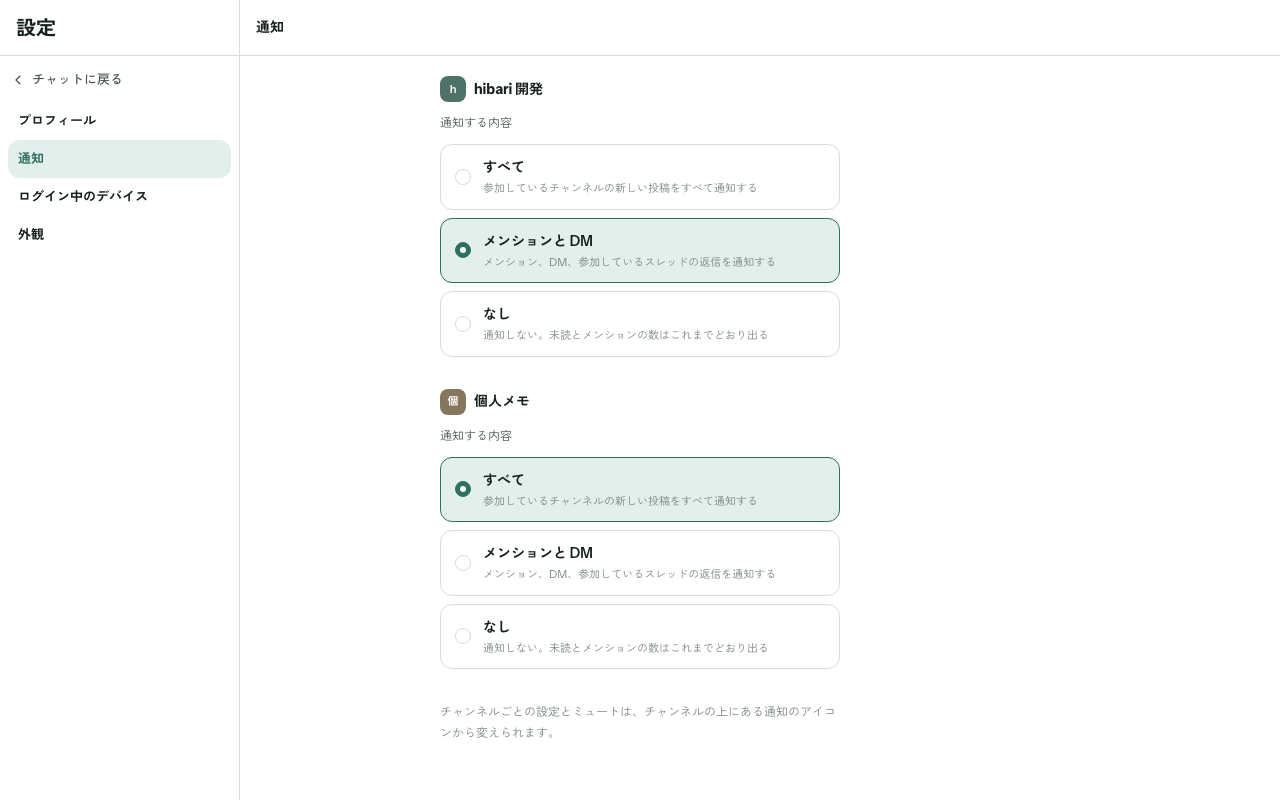
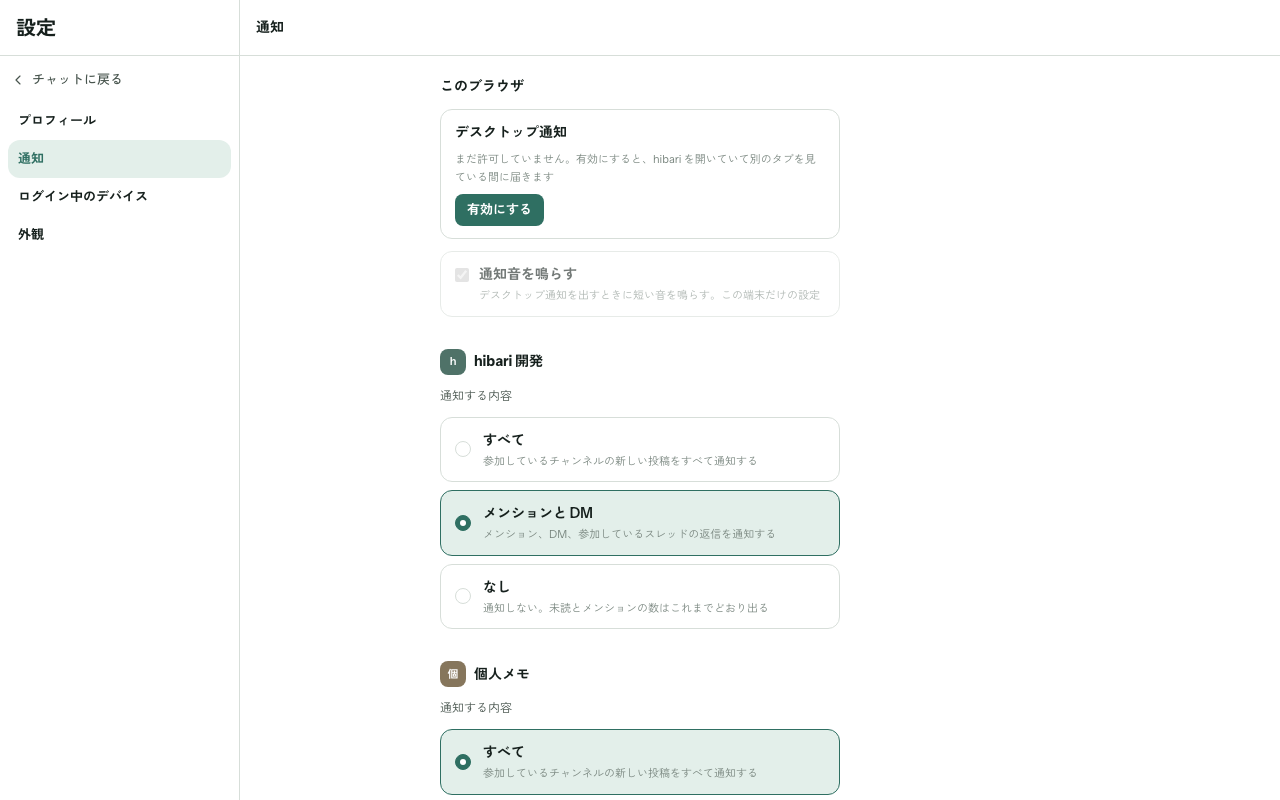
feat(web): ブラウザ通知の画面をデザインに足す（Phase 6.14b の構築順 2）
- サイドバーの検索の下の「デスクトップ通知を有効にしますか？」の帯
- ユーザー設定の「通知」に「このブラウザ」の節（許可の状態・有効にする・通知音）
- story とスクリーンショット、docs/ui/README.md の節

ADR 0057

Changed region(s): [[0.3438, 0.0938, 0.6562, 1.0], [0.5, 0.4062, 0.5938, 0.4375], [0.4375, 0.4062, 0.4688, 0.4375]]

diff --git a/web/components/settings/settings-sections.tsx b/web/components/settings/settings-sections.tsx
@@ -263,12 +263,16 @@ const levelDescriptions: Record<NotificationLevel, string> = {
 export function NotificationSettings({
   workspaces,
   onLevelChange,
+  browser,
 }: {
   workspaces: WorkspaceNotificationView[];
   onLevelChange?: (workspaceId: string, level: NotificationLevel) => void;
+  /** このブラウザのデスクトップ通知（ADR 0057）。端末ごとの設定なので、ワークスペースの節の上に分けて置く。 */
+  browser?: BrowserNotificationView;
 }) {
   return (
     <div className="flex max-w-100 flex-col gap-8">
+      {browser && <BrowserNotificationSettings {...browser} />}
       {workspaces.map((workspace) => (
         <fieldset key={workspace.id} className="flex flex-col gap-2">
           <legend className="flex items-center gap-2 pb-3">
@@ -294,5 +298,64 @@ export function NotificationSettings({
         チャンネルごとの設定とミュートは、チャンネルの上にある通知のアイコンから変えられます。
       </p>
     </div>
+  );
+}
+
+/**
+ * ブラウザの通知の許可（Notification.permission）。unsupported は Notification API のない環境。
+ * 許可はブラウザが持つので、hibari からは「default のときに求める」ことしかできない（ADR 0057 決定 5）。
+ */
+export type BrowserNotificationPermission = "default" | "granted" | "denied" | "unsupported";
+
+export type BrowserNotificationView = {
+  permission: BrowserNotificationPermission;
+  onRequestPermission?: () => void;
+  /** 通知音（ADR 0057 決定 6）。端末ごとの好みで、既定はオン。 */
+  sound: boolean;
+  onSoundChange?: (sound: boolean) => void;
+};
+
+const permissionText: Record<BrowserNotificationPermission, string> = {
+  default: "まだ許可していません。有効にすると、hibari を開いていて別のタブを見ている間に届きます",
+  granted: "有効です。hibari を開いていて別のタブを見ている間に届きます",
+  denied: "ブラウザで通知が拒否されています。ブラウザの設定から許可してください",
+  unsupported: "このブラウザはデスクトップ通知に対応していません",
+};
+
+/** ユーザー設定の「通知」の、このブラウザの節（デスクトップ通知の許可と通知音）。 */
+function BrowserNotificationSettings({ permission, onRequestPermission, sound, onSoundChange }: BrowserNotificationView) {
+  const usable = permission === "granted";
+  return (
+    <fieldset className="flex flex-col gap-3">
+      <legend className="pb-3 text-base font-bold text-text">このブラウザ</legend>
+      <div className="flex flex-col gap-2 rounded-md border border-border px-3.5 py-3">
+        <span className="text-base font-semibold text-text">デスクトップ通知</span>
+        <span className="text-2xs leading-normal text-text-muted">{permissionText[permission]}</span>
+        {permission === "default" && (
+          <Button size="sm" onClick={onRequestPermission} className="self-start">
+            有効にする
+          </Button>
+        )}
+      </div>
+      <label
+        className={cx(
+          "flex items-start gap-2.5 rounded-md border border-border px-3.5 py-3",
+          usable ? "cursor-pointer" : "cursor-not-allowed opacity-60",
+        )}
+      >
+        {/* 本物の checkbox を使い、キーボード操作と読み上げはブラウザに任せる。色だけ primary にそろえる（入力欄と同じ） */}
+        <input
+          type="checkbox"
+          checked={sound}
+          disabled={!usable}
+          onChange={(e) => onSoundChange?.(e.target.checked)}
+          className="mt-1 size-3.5 cursor-pointer accent-primary disabled:cursor-not-allowed"
+        />
+        <span className="flex flex-col gap-0.5">
+          <span className="text-base font-semibold text-text">通知音を鳴らす</span>
+          <span className="text-2xs text-text-muted">デスクトップ通知を出すときに短い音を鳴らす。この端末だけの設定</span>
+        </span>
+      </label>
+    </fieldset>
   );
 }

diff --git a/web/stories/settings/notifications.stories.tsx b/web/stories/settings/notifications.stories.tsx
@@ -1,9 +1,13 @@
 import type { Meta, StoryObj } from "@storybook/nextjs-vite";
 
-import { NotificationSettings } from "@/components/settings/settings-sections";
+import {
+  type BrowserNotificationPermission,
+  type BrowserNotificationView,
+  NotificationSettings,
+} from "@/components/settings/settings-sections";
 
 import { workspaces } from "../fixtures";
-import { userSettings } from "../screens";
+import { noop, userSettings } from "../screens";
 
 /**
  * ユーザー設定 / 通知（ADR 0055）。
@@ -27,17 +31,22 @@ const notificationWorkspaces = [
   { ...workspaces.memo, level: "all" as const },
 ];
 
+/** このブラウザの節（ADR 0057）。既定は、まだ許可していない状態。 */
+function browser(permission: BrowserNotificationPermission): BrowserNotificationView {
+  return { permission, onRequestPermission: noop, sound: true, onSoundChange: noop };
+}
+
 export const Notifications: Story = {
   name: "通知",
   tags: ["since:6.14"],
-  render: () => userSettings("notifications", <NotificationSettings workspaces={notificationWorkspaces} />),
+  render: () => userSettings("notifications", <NotificationSettings workspaces={notificationWorkspaces} browser={browser("default")} />),
 };
 
 export const NotificationsDark: Story = {
   name: "通知（ダーク）",
   tags: ["since:6.14"],
   parameters: { theme: "dark" },
-  render: () => userSettings("notifications", <NotificationSettings workspaces={notificationWorkspaces} />),
+  render: () => userSettings("notifications", <NotificationSettings workspaces={notificationWorkspaces} browser={browser("default")} />),
 };
 
 export const MobileNotifications: Story = {
@@ -45,5 +54,17 @@ export const MobileNotifications: Story = {
   tags: ["since:6.14"],
   parameters: { screenshot: { size: "390x844" } },
   globals: { viewport: { value: "mobile" } },
-  render: () => userSettings("notifications", <NotificationSettings workspaces={notificationWorkspaces} />),
+  render: () => userSettings("notifications", <NotificationSettings workspaces={notificationWorkspaces} browser={browser("default")} />),
+};
+
+export const NotificationsGranted: Story = {
+  name: "通知（デスクトップ通知が有効）",
+  tags: ["since:6.14"],
+  render: () => userSettings("notifications", <NotificationSettings workspaces={notificationWorkspaces} browser={browser("granted")} />),
+};
+
+export const NotificationsDenied: Story = {
+  name: "通知（ブラウザで拒否されている）",
+  tags: ["since:6.14"],
+  render: () => userSettings("notifications", <NotificationSettings workspaces={notificationWorkspaces} browser={browser("denied")} />),
 };

diff --git a/web/stories/screens.tsx b/web/stories/screens.tsx
@@ -29,6 +29,7 @@ import { PinsList } from "@/components/chat/pins-list";
 import { ProfileHoverCard } from "@/components/chat/profile-card";
 import { ProfilePanel } from "@/components/chat/profile-panel";
 import { NotificationMenu } from "@/components/chat/notification-menu";
+import { NotificationPermissionBanner } from "@/components/chat/notification-permission-banner";
 import { RoomHeader } from "@/components/chat/room-header";
 import { RoomTabs } from "@/components/chat/room-tabs";
 import { RemoveSavedItemDialog, RoomSettingsDialog } from "@/components/chat/room-dialogs";
@@ -265,6 +266,8 @@ type ChatOptions = {
    * - sidebar: ミュートしたルームの混ざったサイドバー（開いているルームはミュートしていない）
    */
   notifications?: "menu" | "menu-muted" | "menu-temporary" | "menu-dm" | "sidebar";
+  /** サイドバーの上の「デスクトップ通知を有効にしますか？」の帯（ADR 0057）。 */
+  permissionBanner?: boolean;
   /**
    * ダークで描く画面。ふだんは囲いの `data-theme` だけで足りるが、
    * emoji-mart のようにテーマを JS の props で受け取る部品には、こちらから渡す必要がある（ADR 0044 決定 7）。
@@ -369,6 +372,7 @@ export function chat({
   pins,
   saved,
   notifications,
+  permissionBanner,
   dark,
 }: ChatOptions = {}) {
   // 非公開チャンネルから外されたら、一覧からもヘッダーからも名前を消す（ADR 0035）
@@ -447,6 +451,7 @@ export function chat({
             }
             saved={pins || saved ? { href: noHref, selected: savedList } : undefined}
             roomHref={roomHref}
+            notice={permissionBanner ? <NotificationPermissionBanner onEnable={noop} onDismiss={noop} /> : undefined}
             search={search}
             onCreateRoom={noop}
             onStartDm={noop}

diff --git a/web/components/settings/settings-sections.test.tsx b/web/components/settings/settings-sections.test.tsx
@@ -66,6 +66,36 @@ describe("NotificationSettings", () => {
   });
 });
 
+describe("NotificationSettings のこのブラウザ（ADR 0057）", () => {
+  const workspaces = [{ id: "w1", name: "hibari 開発", level: "mentions" as const }];
+
+  it("まだ許可していなければ「有効にする」を出し、通知音は許可するまで選べない", async () => {
+    const onRequestPermission = vi.fn();
+    render(
+      <NotificationSettings workspaces={workspaces} browser={{ permission: "default", onRequestPermission, sound: true }} />,
+    );
+
+    await userEvent.click(screen.getByRole("button", { name: "有効にする" }));
+    expect(onRequestPermission).toHaveBeenCalledOnce();
+    expect(screen.getByRole("checkbox", { name: /通知音を鳴らす/ })).toBeDisabled();
+  });
+
+  it("拒否されていたら、ブラウザの設定から許可するよう書き、求めるボタンは出さない", () => {
+    render(<NotificationSettings workspaces={workspaces} browser={{ permission: "denied", sound: true }} />);
+
+    expect(screen.getByText(/ブラウザで通知が拒否されています/)).toBeInTheDocument();
+    expect(screen.queryByRole("button", { name: "有効にする" })).not.toBeInTheDocument();
+  });
+
+  it("許可されていれば、通知音を切り替えられる", async () => {
+    const onSoundChange = vi.fn();
+    render(<NotificationSettings workspaces={workspaces} browser={{ permission: "granted", sound: true, onSoundChange }} />);
+
+    await userEvent.click(screen.getByRole("checkbox", { name: /通知音を鳴らす/ }));
+    expect(onSoundChange).toHaveBeenCalledWith(false);
+  });
+});
+
 describe("ProfileSettings avatar", () => {
   const user = { id: "u1", displayName: "あなた", handle: "you" };
 

diff --git a/web/components/chat/notification-permission-banner.tsx b/web/components/chat/notification-permission-banner.tsx
@@ -1,0 +1,30 @@
+import { Button, TextButton } from "@/components/ui/button";
+import { BellIcon } from "@/components/ui/icons";
+
+/**
+ * サイドバーの上の「デスクトップ通知を有効にする」の帯（ADR 0057 決定 5）。
+ *
+ * ブラウザは操作をきっかけにしない許可の要求を拒むので、この帯のボタンを押したときに許可を求める。
+ * 出すのは許可がまだ決まっていないときだけ（出すかは呼ぶ側が決める）。「今はしない」で閉じたら、その端末では出さない。
+ */
+export function NotificationPermissionBanner({ onEnable, onDismiss }: { onEnable?: () => void; onDismiss?: () => void }) {
+  return (
+    <div role="region" aria-label="デスクトップ通知" className="mx-3 mb-2 flex flex-col gap-2 rounded-md bg-surface-muted px-3 py-2.5">
+      <p className="flex items-start gap-2 text-xs leading-normal text-text">
+        <BellIcon className="mt-0.5 size-3.5 shrink-0 text-text-secondary" />
+        <span>
+          <span className="block font-semibold">デスクトップ通知を有効にしますか？</span>
+          新しいメッセージを、このブラウザの通知で受け取れます
+        </span>
+      </p>
+      <div className="flex items-center gap-3 pl-5.5">
+        <Button size="sm" onClick={onEnable}>
+          有効にする
+        </Button>
+        <TextButton onClick={onDismiss} className="text-xs">
+          今はしない
+        </TextButton>
+      </div>
+    </div>
+  );
+}

diff --git a/web/components/chat/notification-permission-banner.test.tsx b/web/components/chat/notification-permission-banner.test.tsx
@@ -1,0 +1,20 @@
+import { render, screen } from "@testing-library/react";
+import userEvent from "@testing-library/user-event";
+import { describe, expect, it, vi } from "vitest";
+
+import { NotificationPermissionBanner } from "./notification-permission-banner";
+
+describe("NotificationPermissionBanner（ADR 0057 決定 5）", () => {
+  it("押したときに許可を求め、「今はしない」で閉じられる", async () => {
+    const onEnable = vi.fn();
+    const onDismiss = vi.fn();
+    render(<NotificationPermissionBanner onEnable={onEnable} onDismiss={onDismiss} />);
+
+    expect(screen.getByRole("region", { name: "デスクトップ通知" })).toHaveTextContent("デスクトップ通知を有効にしますか？");
+    await userEvent.click(screen.getByRole("button", { name: "有効にする" }));
+    await userEvent.click(screen.getByRole("button", { name: "今はしない" }));
+
+    expect(onEnable).toHaveBeenCalledOnce();
+    expect(onDismiss).toHaveBeenCalledOnce();
+  });
+});

diff --git a/web/stories/chat/notification.stories.tsx b/web/stories/chat/notification.stories.tsx
@@ -77,3 +77,24 @@ export const MobileSidebar: Story = {
   globals: { viewport: { value: "mobile" } },
   render: () => chat({ notifications: "sidebar", mobileView: "list" }),
 };
+
+export const PermissionBanner: Story = {
+  name: "デスクトップ通知を有効にする帯",
+  tags: ["since:6.14"],
+  render: () => chat({ permissionBanner: true }),
+};
+
+export const PermissionBannerDark: Story = {
+  name: "デスクトップ通知を有効にする帯（ダーク）",
+  tags: ["since:6.14"],
+  parameters: { theme: "dark" },
+  render: () => chat({ permissionBanner: true, dark: true }),
+};
+
+export const MobilePermissionBanner: Story = {
+  name: "デスクトップ通知を有効にする帯（モバイル）",
+  tags: ["since:6.14"],
+  parameters: { screenshot: { size: "390x844" } },
+  globals: { viewport: { value: "mobile" } },
+  render: () => chat({ permissionBanner: true, mobileView: "list" }),
+};

diff --git a/web/components/chat/sidebar.tsx b/web/components/chat/sidebar.tsx
@@ -39,6 +39,8 @@ type SidebarProps = {
    * 件数は出さない（未読ではないので、琥珀のバッジで呼ばない）。渡さなければ出さない。
    */
   saved?: { href: string; selected: boolean };
+  /** 検索の下に置く帯（「デスクトップ通知を有効にする」。ADR 0057）。渡さなければ出さない。 */
+  notice?: ReactNode;
 };
 
 export function Sidebar({
@@ -59,6 +61,7 @@ export function Sidebar({
   onStartDm,
   threads,
   saved,
+  notice,
 }: SidebarProps) {
   const channels = rooms.filter((room) => room.kind !== "dm");
   const dms = rooms.filter((room) => room.kind === "dm");
@@ -109,6 +112,8 @@ export function Sidebar({
           />
         </label>
       </div>
+
+      {notice}
 
       {rooms.length === 0 ? (
         <div className="flex flex-col items-center gap-1 px-4 pt-12 text-center">

diff --git a/web/components/chat/sidebar.test.tsx b/web/components/chat/sidebar.test.tsx
@@ -127,6 +127,12 @@ describe("Sidebar", () => {
     expect(screen.queryByLabelText("未読 2 件")).not.toBeInTheDocument();
   });
 
+  it("検索の下に帯を置ける（デスクトップ通知。ADR 0057）", () => {
+    renderSidebar({ notice: <p>帯</p> });
+
+    expect(screen.getByText("帯")).toBeInTheDocument();
+  });
+
   it("shows presence only for online DM peers", () => {
     renderSidebar();
 
